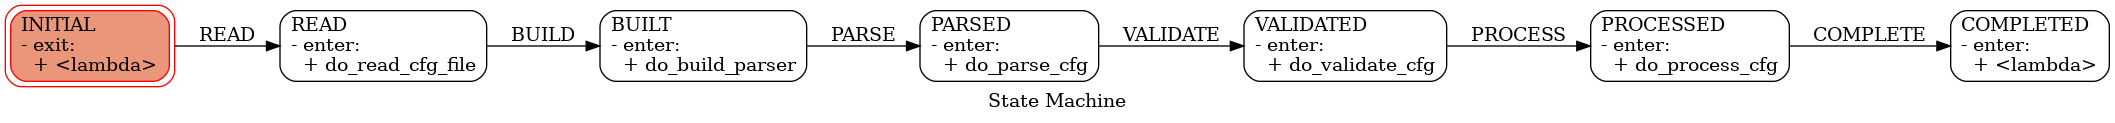
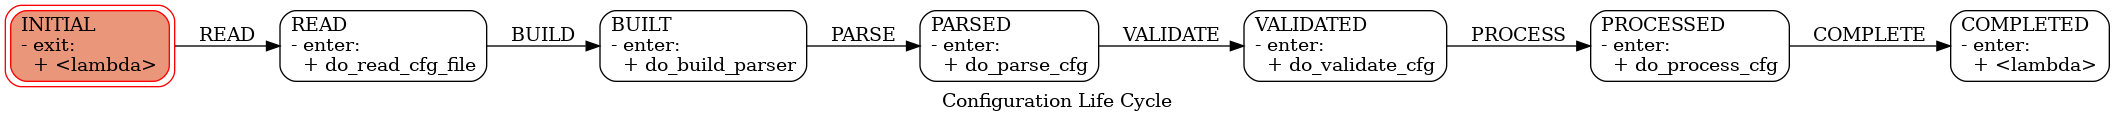
Added title

Changed region(s): [[0.4369, 0.7561, 0.5617, 0.878]]

diff --git a/tests/unit/test_state_graphs.py b/tests/unit/test_state_graphs.py
@@ -5,17 +5,17 @@ def test_draw_process_life_cycle():
     try:
         from util.process_life_cycle import ProcessLifeCycle
         process_life_cycle = ProcessLifeCycle(None)
-        process_life_cycle.get_fsm_builder().draw("launch_state_diagram.png")
-        assert os.path.isfile("launch_state_diagram.png") is True
+        process_life_cycle.get_fsm_builder().draw("./launch_state_diagram.png")
+        assert os.path.isfile("./launch_state_diagram.png") is True
     finally:
-        os.remove("launch_state_diagram.png")
+        os.remove("./launch_state_diagram.png")
 
 
 def test_draw_config_life_cycle():
     try:
         from util.config_life_cycle import ConfigLifeCycle
         config_life_cycle = ConfigLifeCycle(None, None, None, None)
-        config_life_cycle.get_fsm_builder().draw("config_cycle_state_diagram.png")
-        assert os.path.isfile("config_cycle_state_diagram.png") is True
+        config_life_cycle.get_fsm_builder().draw("./config_cycle_state_diagram.png")
+        assert os.path.isfile("./config_cycle_state_diagram.png") is True
     finally:
-        os.remove("config_cycle_state_diagram.png")
+        os.remove("./config_cycle_state_diagram.png")

diff --git a/src/fsm/TransitionsFsmBuilder.py b/src/fsm/TransitionsFsmBuilder.py
@@ -94,10 +94,10 @@ class TransitionsFsmBuilder(TrdFsmBuilder):
 
         return fsm
 
-    def draw(self, path):
+    def draw(self, path, title="State Machine"):
         fsm = TransitionsFsmModel(self.__final)
         from transitions.extensions import GraphMachine
-        machine = GraphMachine(model=fsm, states=self.__states, initial=self.__initial, transitions=self.__transitions, send_event=True, finalize_event=self.__transition_complete_callback, use_pygraphviz=True, show_conditions=True, show_state_attributes=True)
+        machine = GraphMachine(model=fsm, states=self.__states, initial=self.__initial, transitions=self.__transitions, send_event=True, finalize_event=self.__transition_complete_callback, title=title, use_pygraphviz=True, show_conditions=True, show_state_attributes=True)
         fsm.init(machine)
         fsm.get_graph().draw(path, prog='dot')
         return fsm

diff --git a/docs/fsm/graphviz/draw_state_diagrams.py b/docs/fsm/graphviz/draw_state_diagrams.py
@@ -4,5 +4,5 @@ from util.process_life_cycle import ProcessLifeCycle
 process_life_cycle = ProcessLifeCycle(None)
 config_life_cycle = ConfigLifeCycle(None, None, None, None)
 
-process_life_cycle.get_fsm_builder().draw("docs/fsm/graphviz/launch_state_diagram.png")
-config_life_cycle.get_fsm_builder().draw("docs/fsm/graphviz/config_cycle_state_diagram.png")
+process_life_cycle.get_fsm_builder().draw("docs/fsm/graphviz/launch_state_diagram.png", title="Process Life Cycle")
+config_life_cycle.get_fsm_builder().draw("docs/fsm/graphviz/config_cycle_state_diagram.png", title="Configuration Life Cycle")
